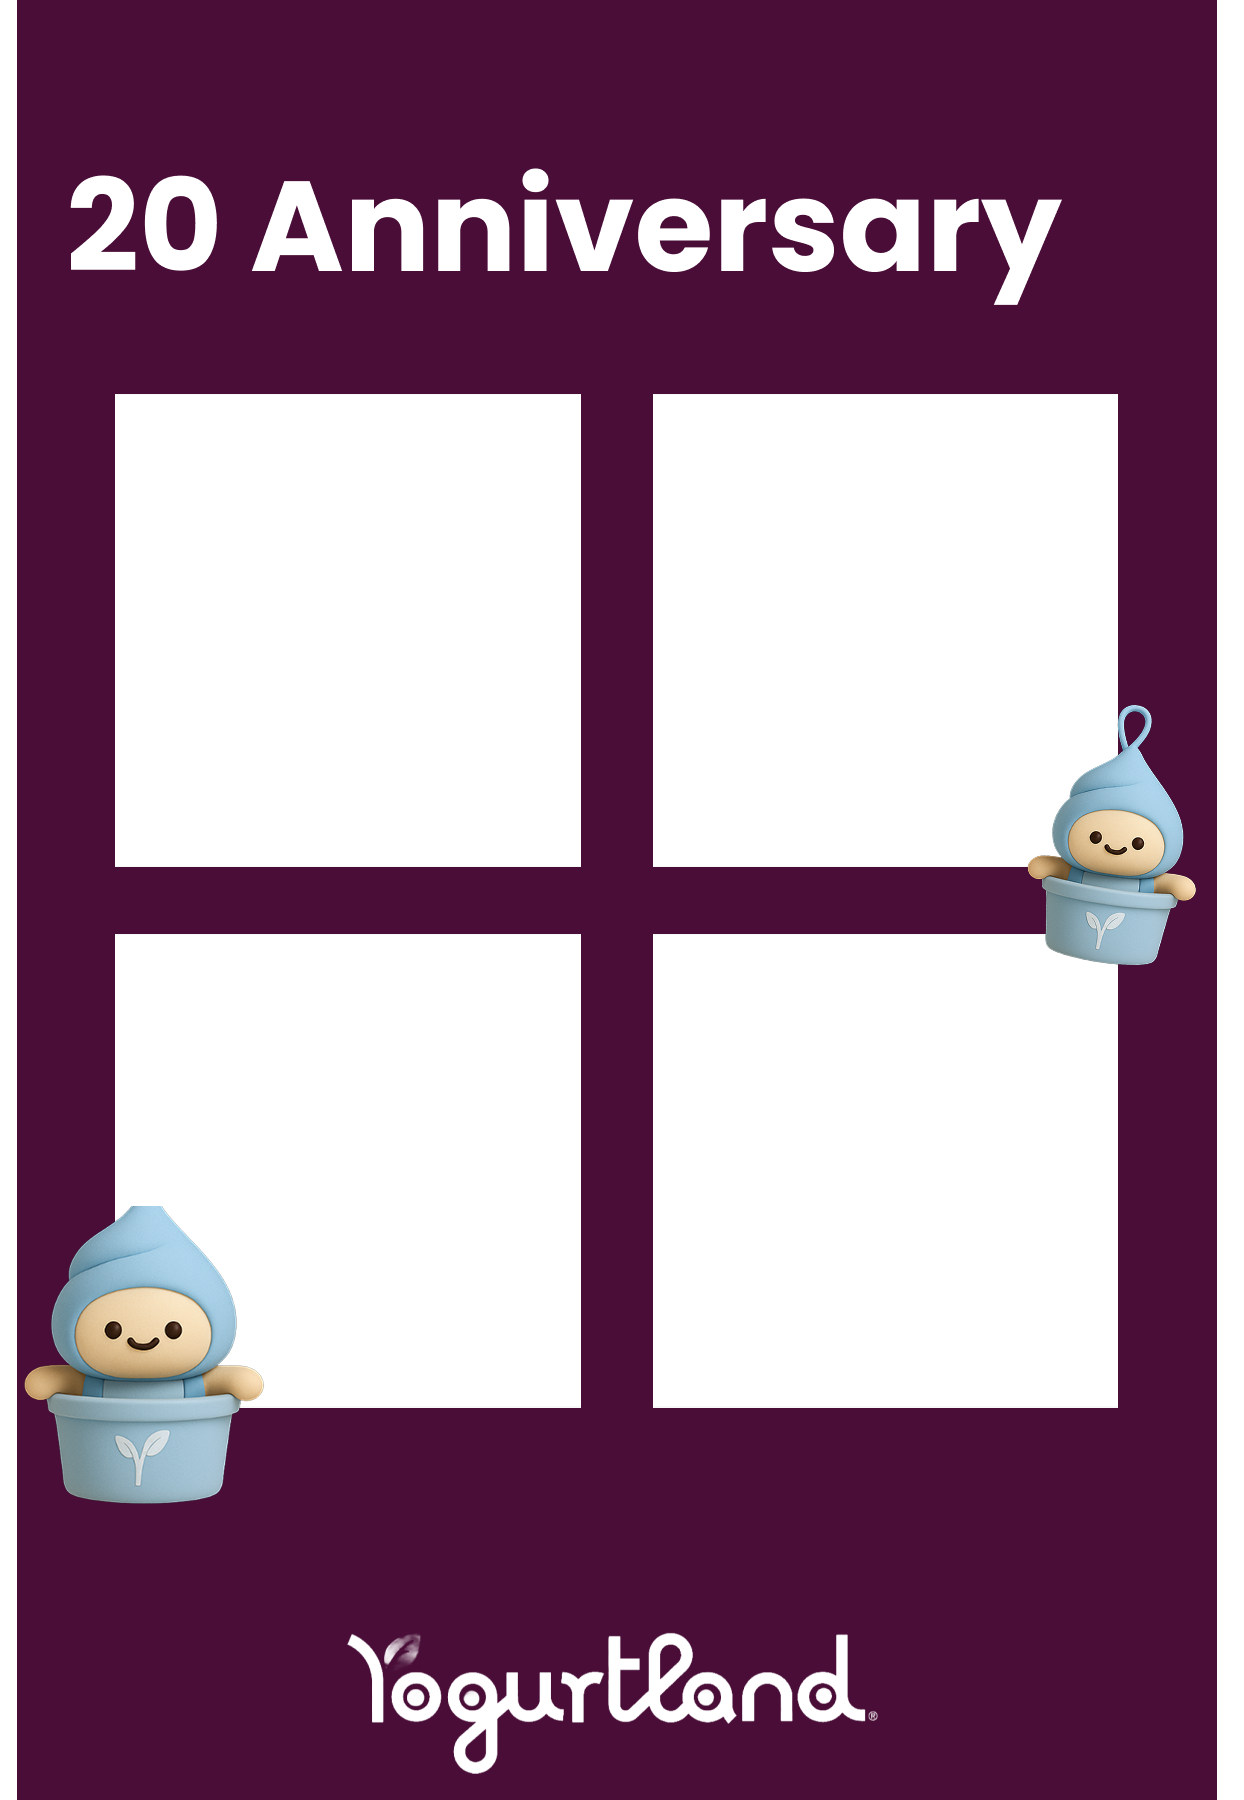
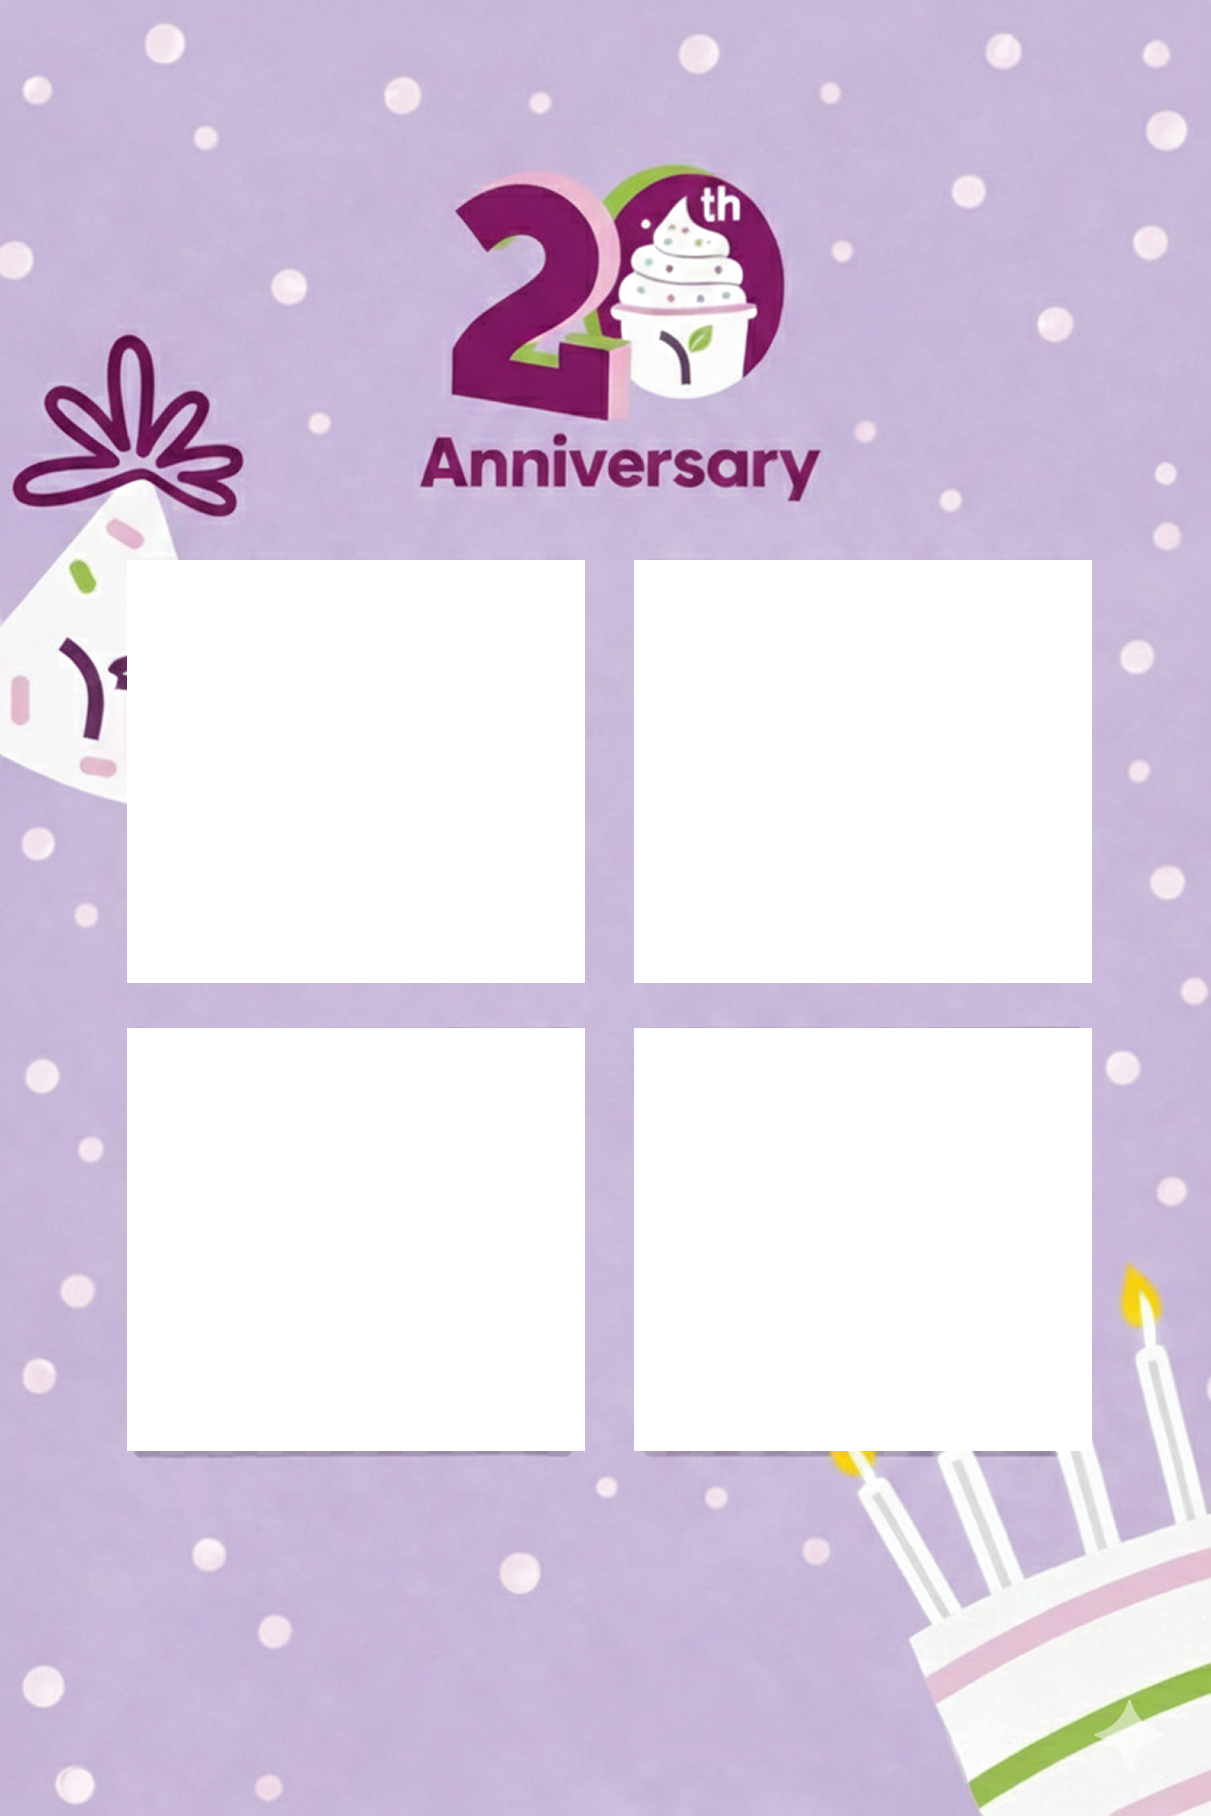
Update frame4 image and result page

diff --git a/app/result/page.tsx b/app/result/page.tsx
@@ -135,7 +135,7 @@ export default function ResultPage() {
       try {
         const data = (await get(DB_KEY)) as SavedState | undefined;
         if (!data || !data.shots || data.shots.length !== 4) {
-          setError("No shooting data found. Please take 4 photos on the shooting page first.");
+          setError("No capturing data found. Please take 4 photos on the capturing page first.");
           setShots([]);
           setFinalBlob(null);
           setLoadedAt(null);
